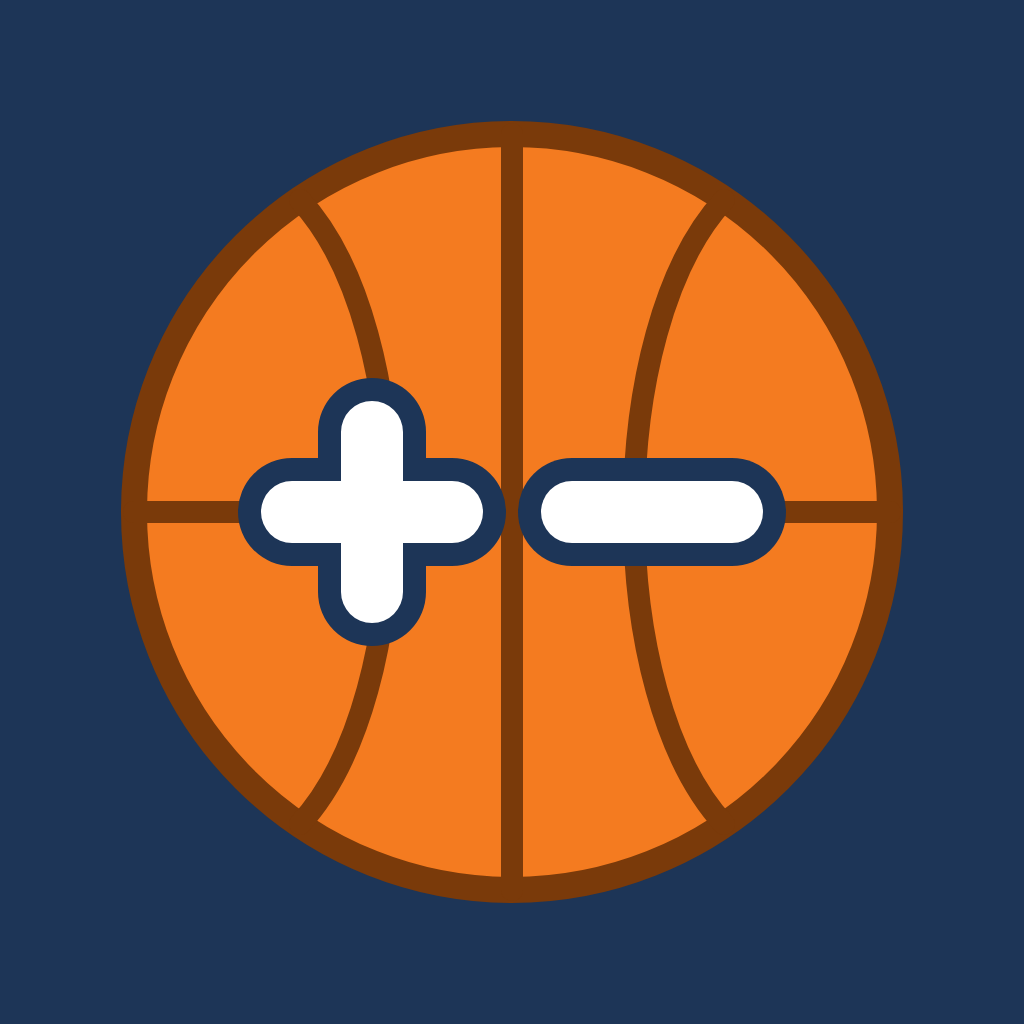
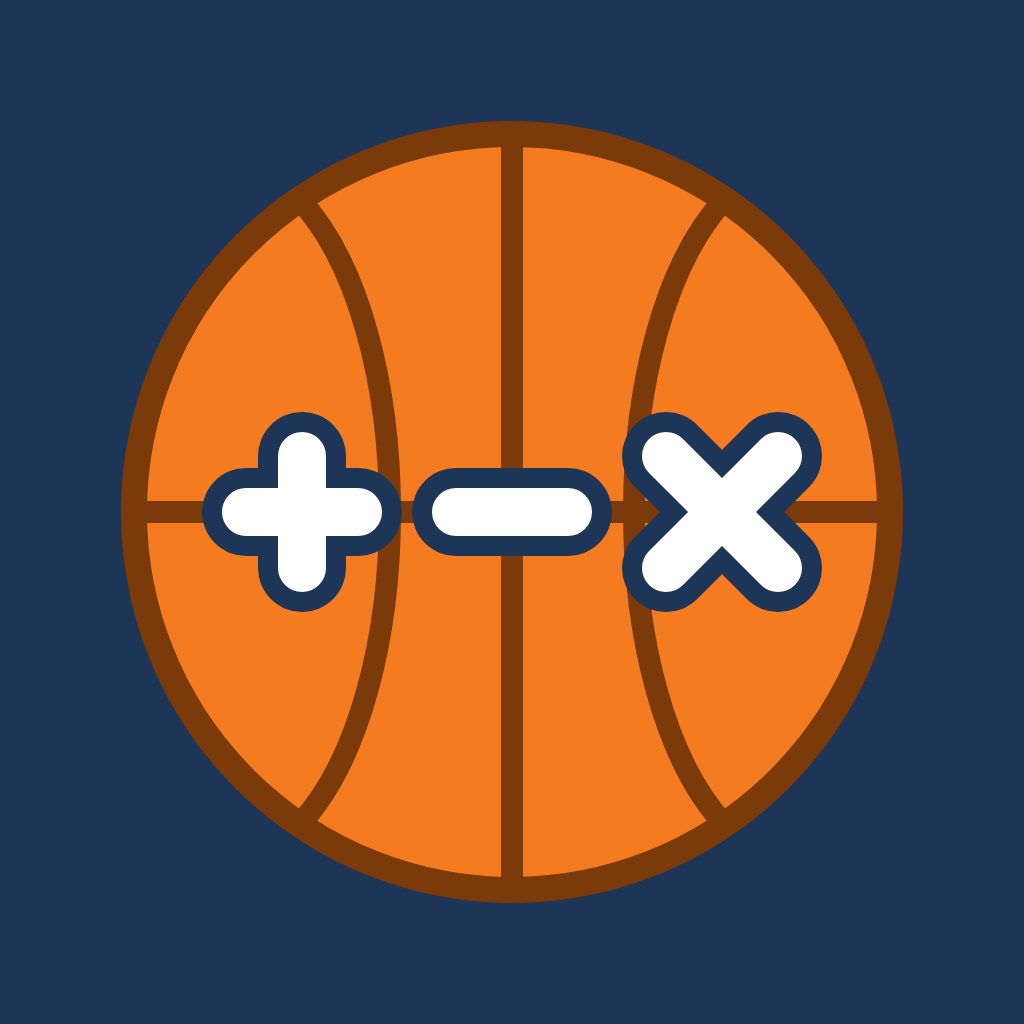
v3.36: icono con +, − y × (también hay tablas de multiplicar)
Claude-Session: https://claude.ai/code/session_01SzTzzzohvvMUpqctBHsnA3

Changed region(s): [[0.1875, 0.3438, 0.8125, 0.6562]]

diff --git a/index.html b/index.html
@@ -2869,7 +2869,7 @@ const IK = (function(){
   const VERSION = (document.querySelector('meta[name="app-version"]')||{}).content || 'dev';
   // Lo que trae cada versión, contado para Gabi (lo más nuevo, arriba)
   const NOVEDADES = [
-    ['3.36',['✍ Cada jugador escribe su nombre al empezar y el público lo grita en cada canasta', '⚙ El nombre se puede cambiar en Ajustes', '🏀 Icono nuevo: un balón con + y −', '👀 Colores de los botones más fuertes para que se lean mejor']],
+    ['3.36',['✍ Cada jugador escribe su nombre al empezar y el público lo grita en cada canasta', '⚙ El nombre se puede cambiar en Ajustes', '🏀 Icono nuevo: un balón con +, − y ×', '👀 Colores de los botones más fuertes para que se lean mejor']],
     ['3.35.1',['📲 Ayuda para instalar al día con iOS 27: el botón de tres rayas dentro de la barra de la dirección']],
   ['3.35', ['🔄 En Ajustes, botón «Buscar actualizaciones»', '📲 Ayuda para instalarlo con los pasos de tu iPad o móvil, y aviso amarillo en el menú', '🖼 Iconos para todos los tamaños e imagen al compartir el enlace']],
     ['3.34', ['🎯 Las cuentas que fallas salen más a menudo hasta que te las sabes', '📊 Nuevo «Mi progreso»: la tabla de multiplicar se va poniendo verde', '🃏 Nuevo juego de Tarjetas: ¿te la sabías o no?', '🧩 Nuevo juego «Completa la tabla», con pistas', '📲 En Ajustes: cómo instalarla en el iPad, copiar el enlace y «Acerca de»', '🏀 El botón «¡A jugar!» está siempre a mano, debajo de «¿Cómo jugamos?»', '👆 Tocar dos veces seguidas ya no acerca la pantalla']],
